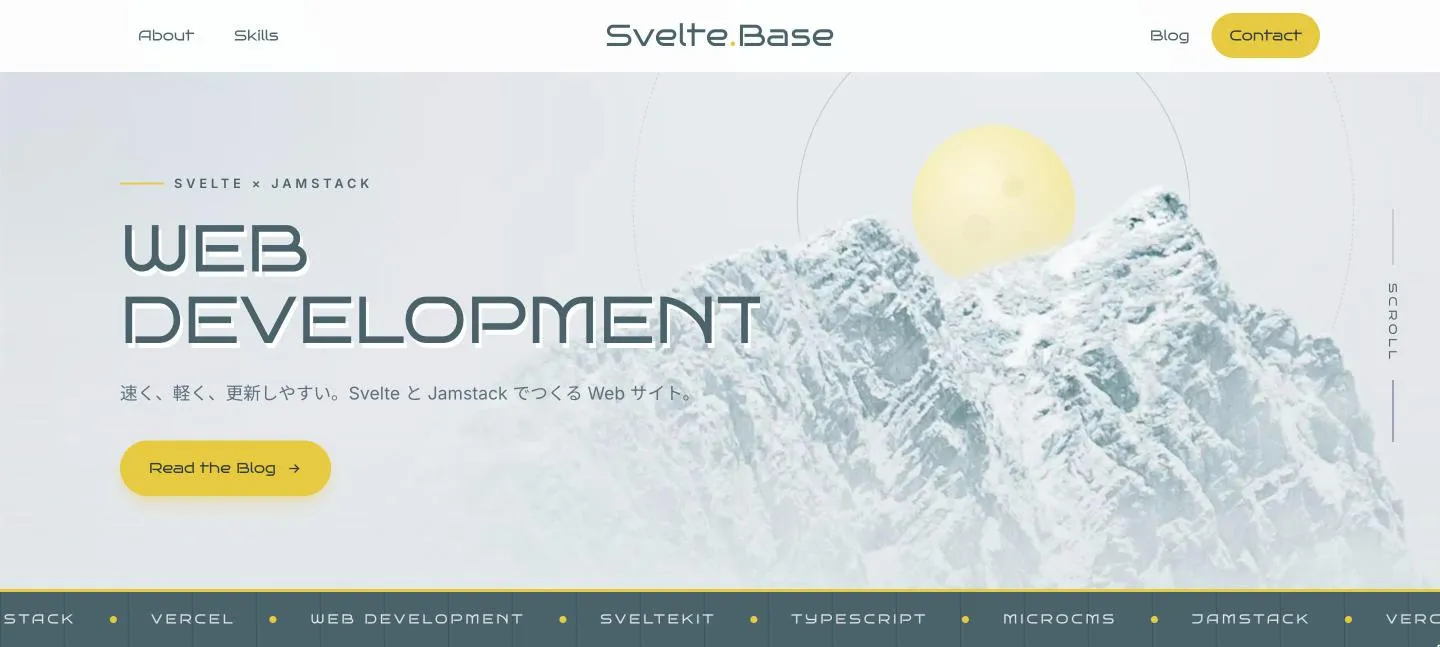
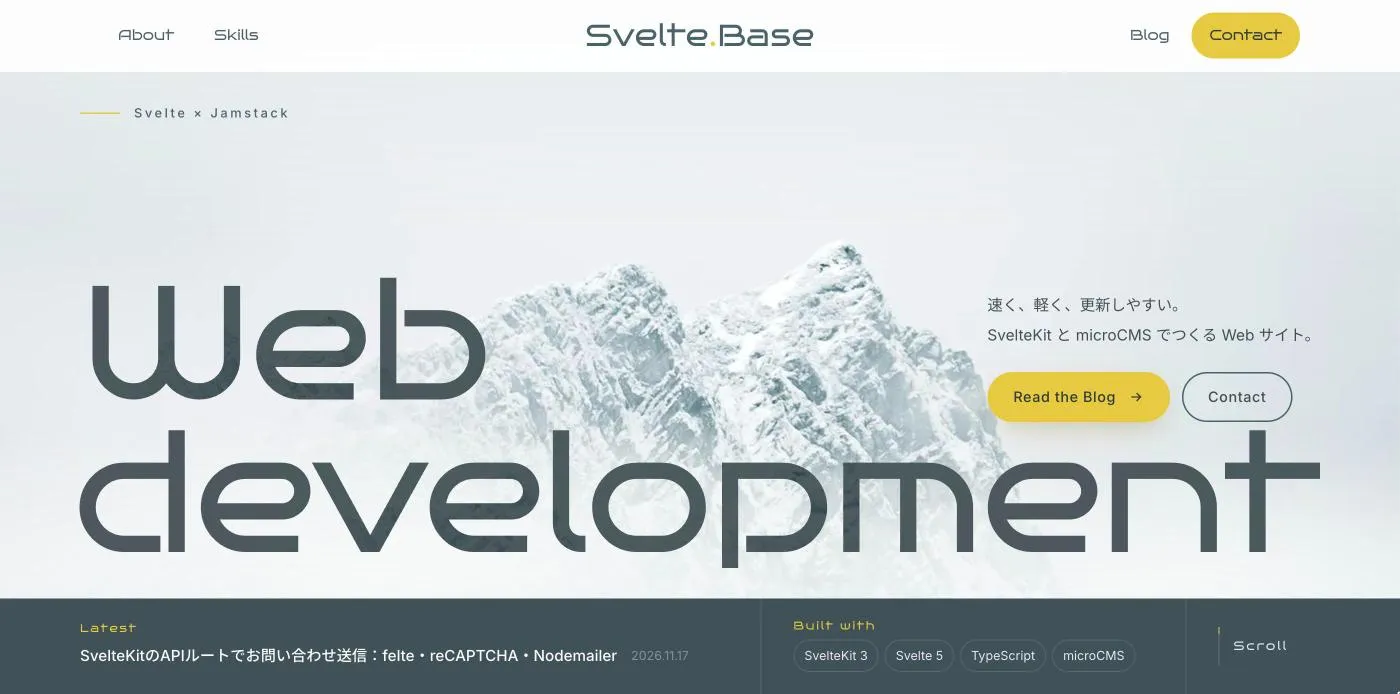
Update SVELTE BASE for SvelteKit 3 and its redesign
SVELTE BASE moved to SvelteKit 3 / Svelte 5 / TypeScript 6 with a mountain-climb redesign and env vars from $app/env/private. Update its Jamstack entry, retake the hero screenshot, and rewrite profile.json and the README table. Delivery is still SSG via prerender.

diff --git a/frontend/lib/config.ts b/frontend/lib/config.ts
@@ -343,12 +343,12 @@ export const JAMSTACK: JamSite[] = [
     },
   },
   {
-    name: "SVELTE BASE", fw: "SvelteKit", render: "SSG", repo: "SvelteKit-TypeScript-MicroCMS-Site",
-    demo: "https://sveltebase-phi.vercel.app", img: "sveltekit", size: [1440, 647],
-    tech: ["SvelteKit", "TypeScript", "microCMS"],
+    name: "SVELTE BASE", fw: "SvelteKit 3", render: "SSG", repo: "SvelteKit-TypeScript-MicroCMS-Site",
+    demo: "https://sveltebase-phi.vercel.app", img: "sveltekit", size: [1400, 694],
+    tech: ["SvelteKit 3", "Svelte 5", "TypeScript", "felte", "microCMS"],
     note: {
-      ja: "+page.server.ts でデータを取得し、prerender でビルド時にページを生成。APIキーは $env/static/private から読む。",
-      en: "Data is loaded in +page.server.ts and pages are generated at build time with prerender. The API key is read from $env/static/private.",
+      ja: "+page.server.ts で記事を取得し、prerender でビルド時に静的HTMLに。山登りに見立てたデザインで、スクロールに合わせて山へズームするヒーローと高度計を備える。",
+      en: "Posts are loaded in +page.server.ts and prerendered as static HTML at build time. Designed as a mountain climb, with a scroll-driven hero that zooms into the mountain and an altimeter.",
     },
   },
   {

diff --git a/README.md b/README.md
@@ -31,7 +31,7 @@ All five use the same microCMS (`blogs` endpoint), so you can compare how a cont
 |---|---|---|---|
 | NUXT BASE | Nuxt 4 | SSR | [Nuxtjs-TypeScript-Gsap-MicroCMS-Site](https://github.com/shim369/Nuxtjs-TypeScript-Gsap-MicroCMS-Site) |
 | ASTRO BASE | Astro 7 | SSG | [Astro-MicroCMS-Site](https://github.com/shim369/Astro-MicroCMS-Site) |
-| SVELTE BASE | SvelteKit | SSG | [SvelteKit-TypeScript-MicroCMS-Site](https://github.com/shim369/SvelteKit-TypeScript-MicroCMS-Site) |
+| SVELTE BASE | SvelteKit 3 | SSG | [SvelteKit-TypeScript-MicroCMS-Site](https://github.com/shim369/SvelteKit-TypeScript-MicroCMS-Site) |
 | NEXT BASE | Next.js 16 | ISR (webhook revalidation) | [Nextjs-TypeScript-MicroCMS-Site2](https://github.com/shim369/Nextjs-TypeScript-MicroCMS-Site2) |
 | GATSBY BASE | Gatsby 5 | SSG | [Gatsby-TypeScript-Threejs-MicroCMS-Site](https://github.com/shim369/Gatsby-TypeScript-Threejs-MicroCMS-Site) |
 
